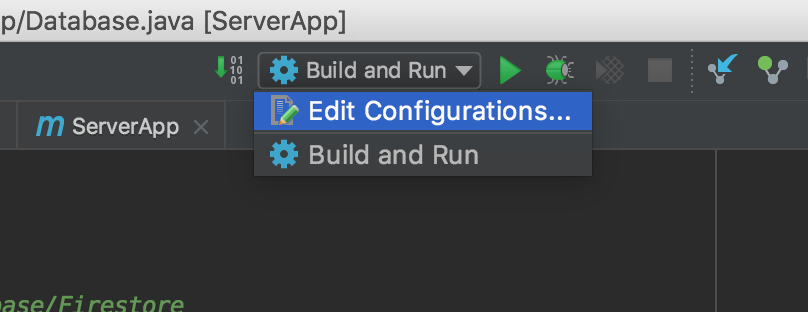
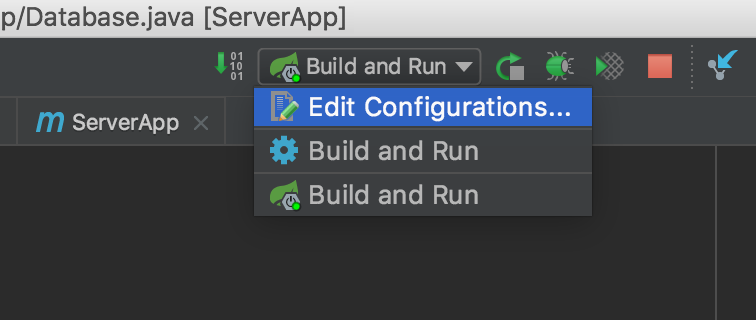
updated README.md to include run configurations for using springboot directly

diff --git a/README.md b/README.md
@@ -2,8 +2,8 @@
 
 - [Project Setup](#project-setup)
 - [Running in IntelliJ](#running-in-intellij)
-    - [First Time Only](#first-time-only)
-    - [Every Time](#every-time)
+    - [Running with Spring Boot](#running-with-spring-boot)
+    - [Running with Maven](#running-with-maven)
 
 
 # Project Setup
@@ -15,14 +15,20 @@ Note: these instructions are for macOS.
 
 # Running in IntelliJ
 
-We are using Maven to manage dependencies and to run this application. We use two commands when building and running: `mvn package` to compile and package the content into a `.jar` file, and `mvn exec:java` to execute the newly packaged `.jar` file. The instructions below show how to set up a quick and easy run configuration so you don't have to type those commands into the command line each time you want to run the server.
+There are two methods that can be used to run this application. We can rely on [Spring Boot](#running-with-spring-boot) to do the job and only use Maven for dependency management, or we can boot using [Maven](#running-with-maven). Either option works, but booting with Spring Boot is much faster and cleaner in the logs. Prefer this option over building and running with Maven.
 
-## First Time Only
+In both cases, once Run Configurations are set up, you can click the green `Run` triangle in the top right of IntelliJ to run the server.
+
+## Running with Spring Boot
+
 1. Click on `Edit Configurations` in the top right ![Edit Configurations](./ReadmeImages/editRunConfigurations.png)
-2. Add a new Maven configuration in the top left of the new window by clicking the `+` sign ![Add New Configuration](./ReadmeImages/addNewConfiguration.png)
-3. Fill in the `Name` and the `Command line` fields as shown in this image, then click the `+` sign under the `Before launch:` section at the bottom ![Maven Configuration for Execution](./ReadmeImages/mavenConfiguration.png)
-4. Select `Run Maven Goal` in the new window ![New Maven Goal](./ReadmeImages/addNewConfiguration2.png)
-5. Fill in the `Command line` field as shown in this image ![Maven Configuration for Packaging](./ReadmeImages/selectMavenGoal.png)
+2. Add a new Spring Boot configuration in the top left of the new window by clicking the `+` sign ![Add New Spring Boot Configuration](./ReadmeImages/springBootAddNewConfiguration.png)
+3. Fill in the `Name` and the `Main class` fields as shown ![Spring Boot Configuration](./ReadmeImages/springBootConfiguration.png)
 
-## Every Time
-1. Click the green `Run` triangle in the top right of IntelliJ!
+## Running with Maven
+
+1. Click on `Edit Configurations` in the top right ![Edit Configurations](./ReadmeImages/editRunConfigurations.png)
+2. Add a new Maven configuration in the top left of the new window by clicking the `+` sign ![Add New Maven Configuration](./ReadmeImages/mavenAddNewConfiguration.png)
+3. Fill in the `Name` and the `Command line` fields as shown, then click the `+` sign under the `Before launch:` section at the bottom ![Maven Configuration for Execution](./ReadmeImages/mavenConfiguration.png)
+4. Select `Run Maven Goal` in the new window ![New Maven Goal](./ReadmeImages/mavenAddNewConfiguration2.png)
+5. Fill in the `Command line` field as shown in this image ![Maven Configuration for Packaging](./ReadmeImages/mavenSelectMavenGoal.png)
